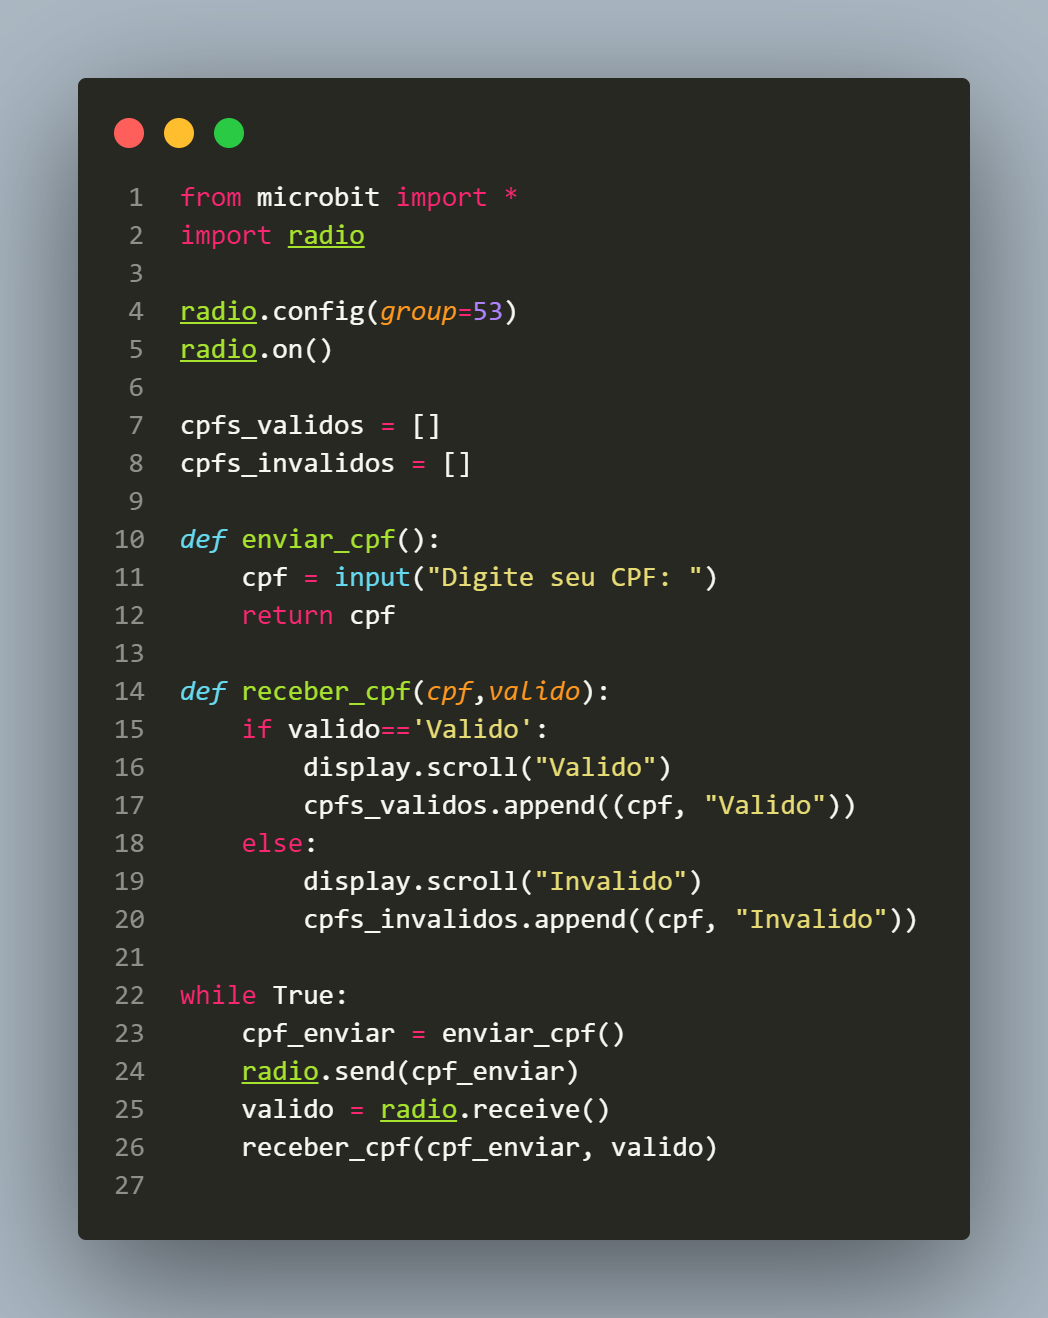
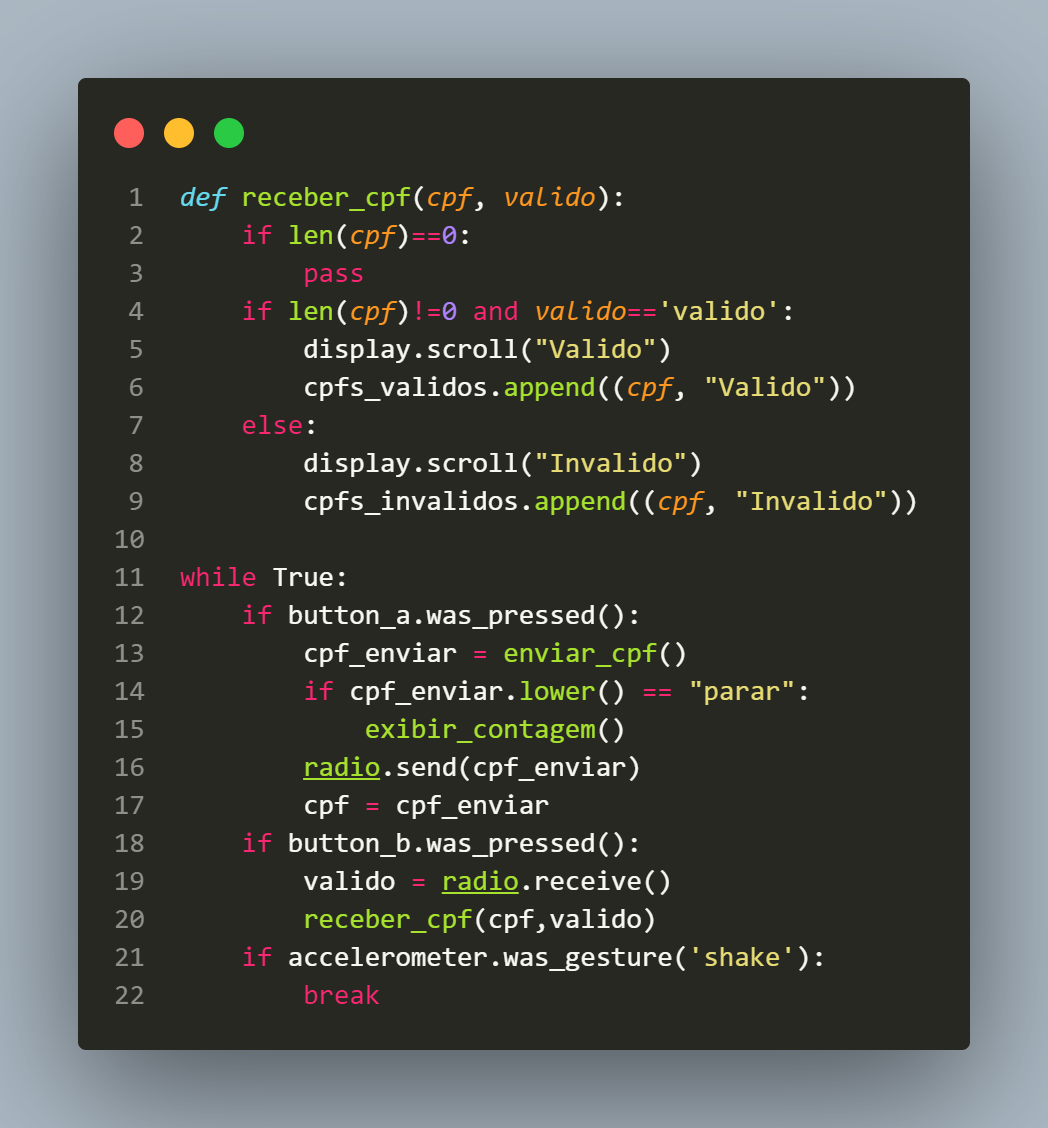
add: projeto microbit

diff --git a/Python Nivelamento/microbit/verificar_cpf.py b/Python Nivelamento/microbit/verificar_cpf.py
@@ -1,3 +1,44 @@
+from microbit import *
+import radio
+
+radio.config(group=53)
+radio.on()
+
+cpfs_validos = []
+cpfs_invalidos = []
+cpf = 0
+
+def enviar_cpf():
+    cpf = input("Digite seu CPF: ")
+    return cpf
+
+def exibir_contagem():
+    display.scroll("Validos: " + str(len(cpfs_validos)))
+    display.scroll("Invalidos: " + str(len(cpfs_invalidos)))
+
+def receber_cpf(cpf, valido):
+    if len(cpf)==0:
+        pass
+    if len(cpf)!=0 and valido=='valido':
+        display.scroll("Valido")
+        cpfs_validos.append((cpf, "Valido"))
+    else:
+        display.scroll("Invalido")
+        cpfs_invalidos.append((cpf, "Invalido"))
+
+while True:
+    if button_a.was_pressed():
+        cpf_enviar = enviar_cpf()
+        if cpf_enviar.lower() == "parar":
+            exibir_contagem()
+        radio.send(cpf_enviar)
+        cpf = cpf_enviar
+    if button_b.was_pressed():
+        valido = radio.receive()
+        receber_cpf(cpf,valido)
+    if accelerometer.was_gesture('shake'):
+        break
+        
 # Imports go at the top
 from microbit import *
 
@@ -13,7 +54,6 @@ def verificacao(cpf):
 
         for i, digito in enumerate(cpf_s):
             soma += int(digito) * peso
-            print(digito)
             peso += 1
             
         digito = soma % 11
@@ -36,35 +76,6 @@ while True:
     cpf = radio.receive()
     if cpf:
        if verificacao(cpf):
-           radio.send('Valido')
+           radio.send('valido')
        else:
-           radio.send("Invalido")
-
-
-
-from microbit import *
-import radio
-
-radio.config(group=53)
-radio.on()
-
-cpfs_validos = []
-cpfs_invalidos = []
-
-def enviar_cpf():
-    cpf = input("Digite seu CPF: ")
-    return cpf
-
-def receber_cpf(cpf,valido):
-    if valido=='Valido':
-        display.scroll("Valido")
-        cpfs_validos.append((cpf, "Valido"))
-    else:
-        display.scroll("Invalido")
-        cpfs_invalidos.append((cpf, "Invalido"))
-
-while True:
-    cpf_enviar = enviar_cpf()
-    radio.send(cpf_enviar)
-    valido = radio.receive()
-    receber_cpf(cpf_enviar, valido)
+           radio.send('invalido')
